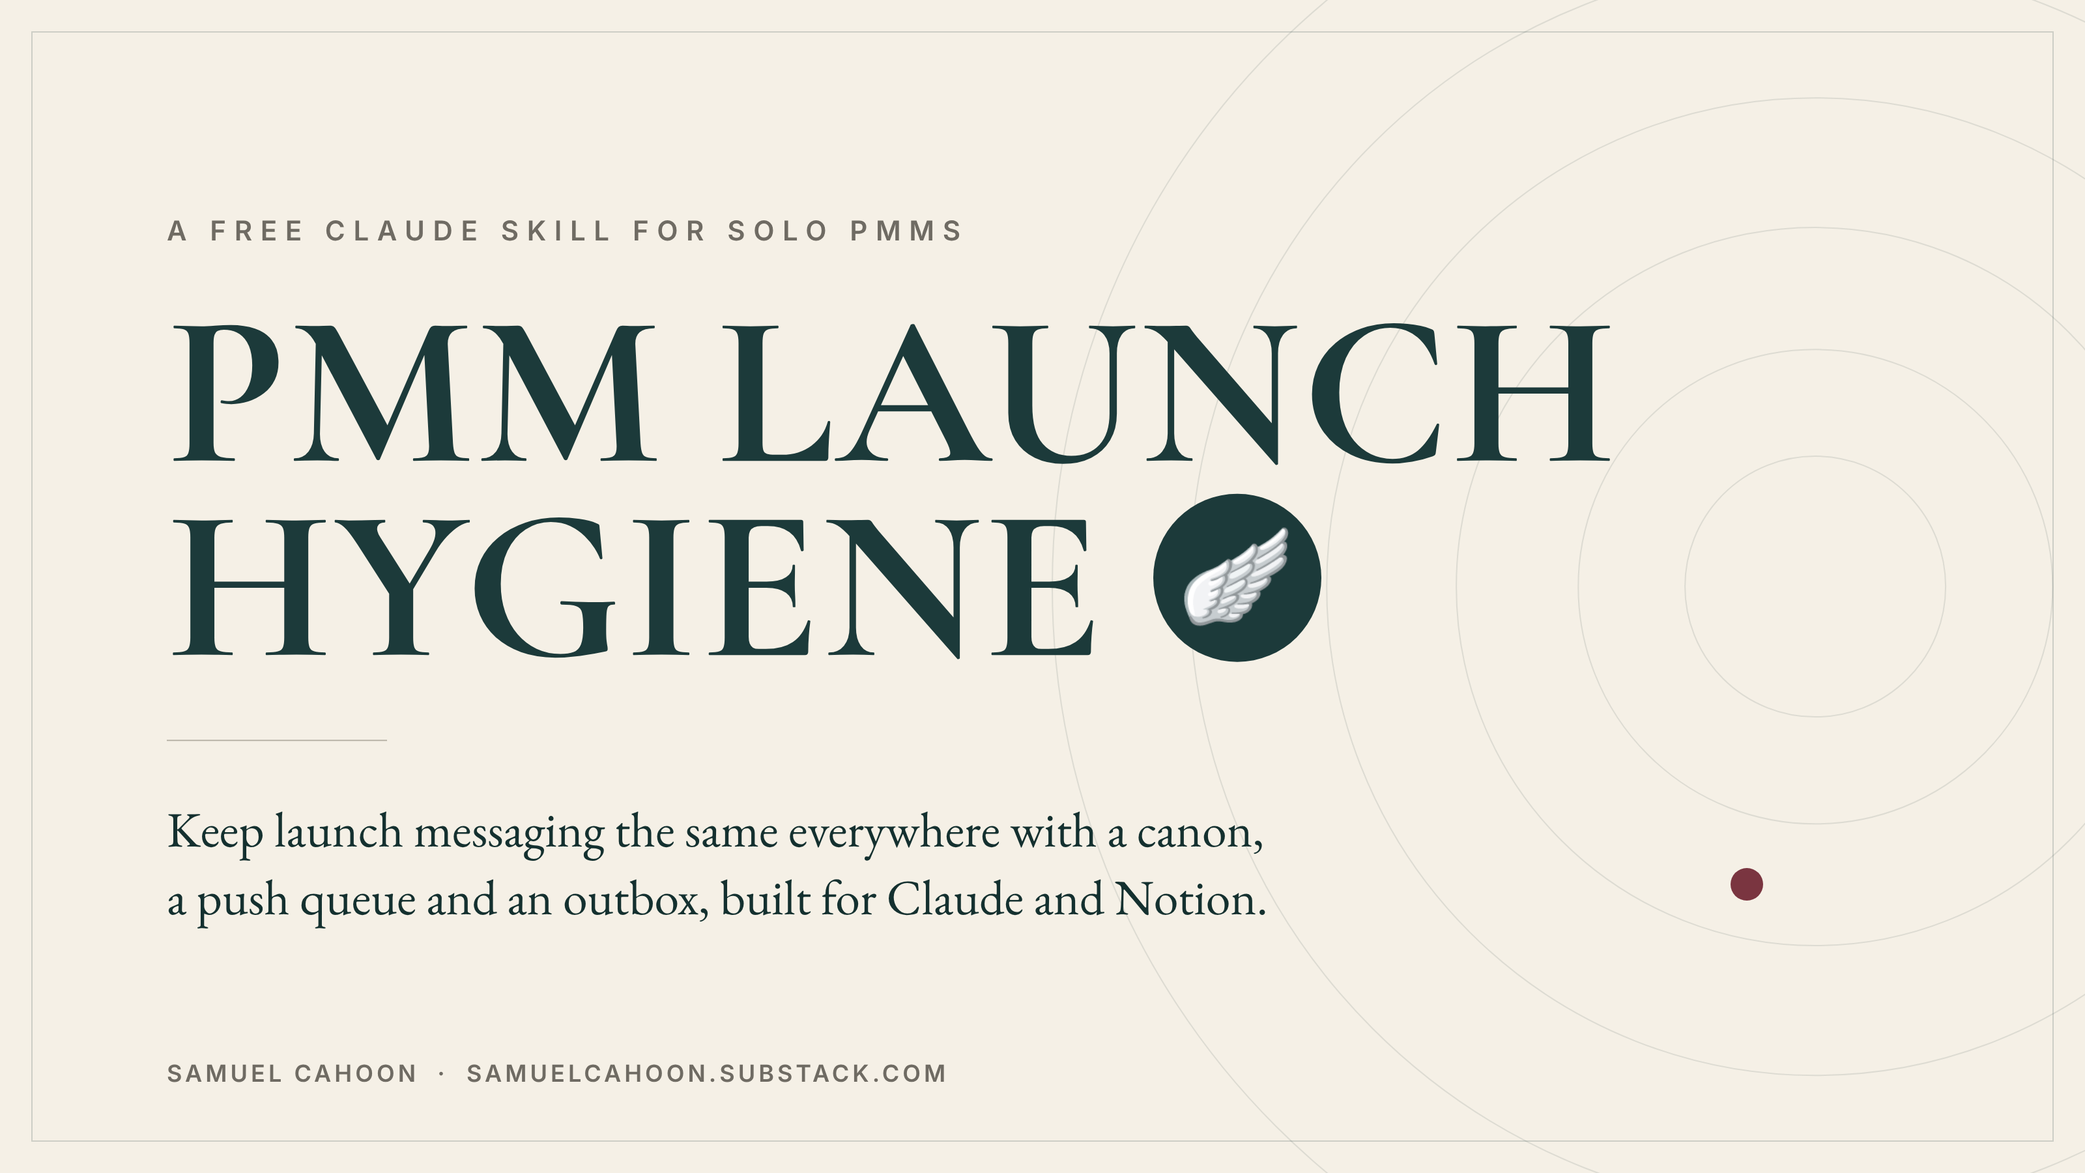
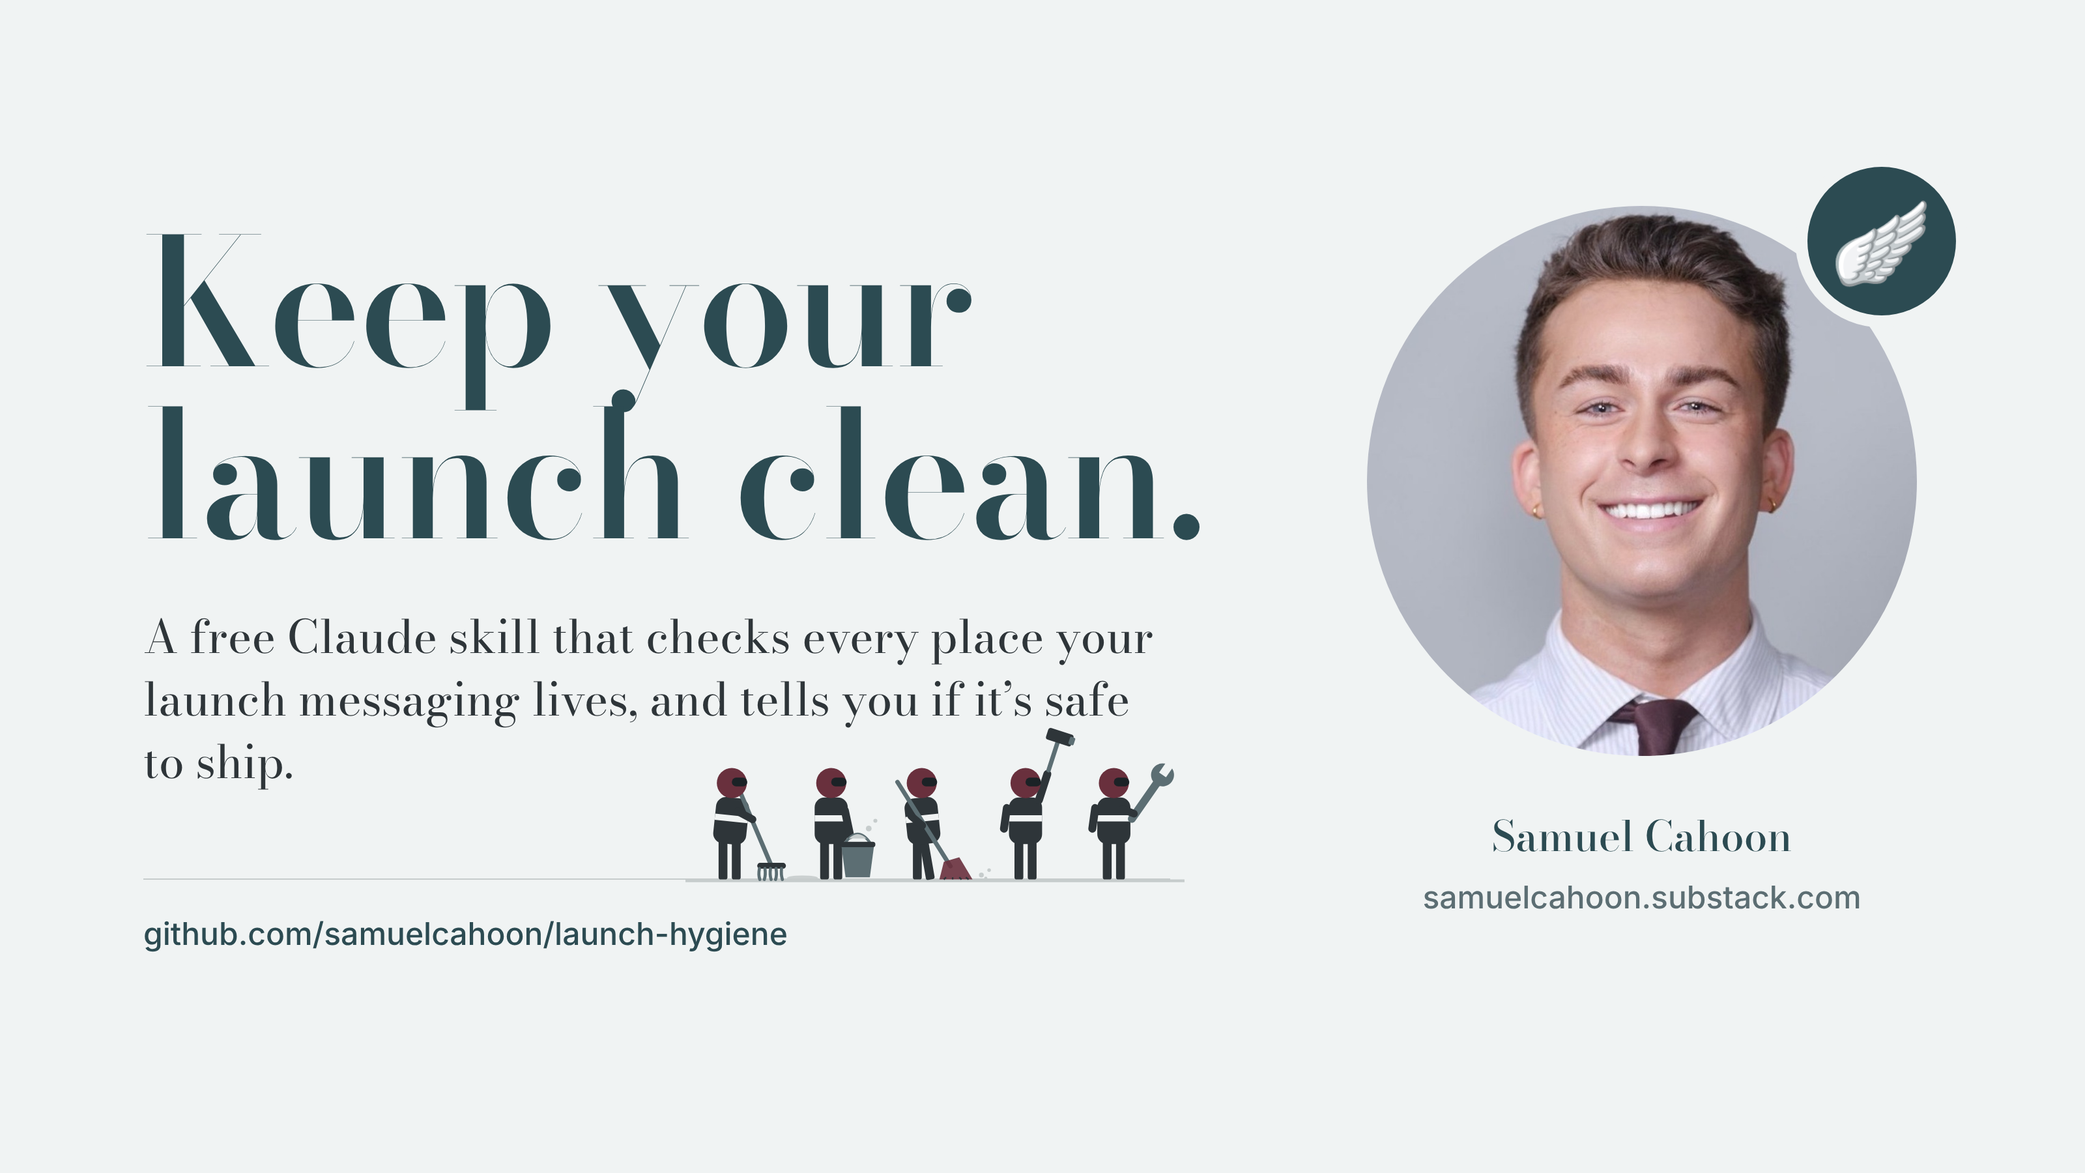
v1.1: team mode on GitHub, new cover, third blind run
- Team mode: the canon can live in a private GitHub repo. Every messaging
  change is a pull request, CODEOWNERS asks the decider to approve, and the
  drift check runs on every pull request (templates/github/).
- drift_check.py writes its report to the GitHub Actions run summary.
- The repo tests itself: the script benchmark runs on every push.
- New cover: "Keep your launch clean."
- Eval: run 3 (v2.1 on Northlight) scored 15 of 15, traps clean.

Claude-Session: https://claude.ai/code/session_01BpPbQ6QDN6mAz9z1dMCNJ5

diff --git a/skills/launch-hygiene/drift_check.py b/skills/launch-hygiene/drift_check.py
@@ -21,6 +21,7 @@ Matching ignores capital letters, curly vs straight quotes and extra spaces.
 Web pages are checked for what people and machines read: visible text, alt text,
 titles, meta and Open Graph descriptions, and JSON-LD.
 Exit code: 0 when safe to ship, 1 when anything is stale or close, 2 when it couldn't check.
+On GitHub Actions, the report also goes to the run's summary (see templates/github/).
 """
 import datetime, difflib, html, json, os, re, sys, unicodedata, urllib.request
 
@@ -204,7 +205,7 @@ def main():
         sys.exit(2)
     stale = sorted(res['stale'], key=lambda h: not h['ai'])
     ver = f" v{canon['version']}" if canon.get('version') else ''
-    L = ['# Drift check', '', ('Canon' + ver + '. ' if ver else '') + f'Checked {n} {"file or page" if n == 1 else "files or pages"} against {len(canon.get("retired", []))} retired phrases and '
+    L = ['# Drift check', '', ('Canon' + ver + '. ' if ver else '') + f'Checked {n} {"file or page" if n == 1 else "files or pages"} against {len([r for r in canon.get("retired", []) if '[' not in r.get('find', '')])} retired phrases and '
          f'{len([1 for v in canon.get("approved", {}).values() if atext(v) and "[" not in atext(v)])} approved lines.', '']
     if stale:
         L += [f'## Stale ({len(stale)}): fix or queue', '',
@@ -235,6 +236,10 @@ def main():
         with open(out_path, 'w', encoding='utf-8') as fh:
             fh.write(report)
     print(report)
+    summary = os.environ.get('GITHUB_STEP_SUMMARY')
+    if summary:  # On GitHub, show the report on the pull request's checks page.
+        with open(summary, 'a', encoding='utf-8') as fh:
+            fh.write(report)
     sys.exit(0 if not stale and not res['close'] else 1)
 
 if __name__ == '__main__':

diff --git a/eval/grade.py b/eval/grade.py
@@ -103,7 +103,7 @@ def main():
         return out
     rl = rule_lines(voice)
     vfix = N(v['v3']) not in N(' '.join(l for l in voice.splitlines() if l not in rl)) and all(l in rl for l in voice.splitlines() if v['old_product'] in l)
-    upstream = bool(re.search(r'(assistant|prompt|ai tools?), first', allout)) or bool(re.search(r'(voice|prompt|writing assistant|ai instructions|ai tools?)[^.]{0,160}(upstream|source|regenerat|fix(ed)? (these |it |them )?first|keep (writing|producing|putting)|reintroduc|bring (it|them) back|every future|future (copy|drafts)|tomorrow)', allout))
+    upstream = bool(re.search(r'(assistant|prompt|ai tools?)[^\n]{0,20}\bfirst\b', allout)) or bool(re.search(r'(voice|prompt|writing assistant|ai instructions|ai tools?)[^.]{0,160}(upstream|source|regenerat|fix(ed)? (these |it |them )?first|keep (writing|producing|putting)|reintroduc|bring (it|them) back|every future|future (copy|drafts)|tomorrow)', allout))
     row('P9 AI voice prompt fixed + called upstream', vfix and upstream, f'fixed: {vfix}, called out as the source: {upstream}', half=vfix)
     sent_unchanged = not changed('sent/' + sent_rel)
     corr = bool(re.search(r'correct|follow[- ]?up|update (to|for)? ?' + re.escape(N(v['reporter']).split()[0]), allout)) and N(v['reporter']).split()[0] in allout

diff --git a/skills/launch-hygiene/SKILL.md b/skills/launch-hygiene/SKILL.md
@@ -1,6 +1,6 @@
 ---
 name: launch-hygiene
-description: Keeps launch messaging the same everywhere when you're the only PMM. Runs a drift check across files, live pages and Notion, queues edits to pages other people own, and keeps the current version of every unsent message. Use after any messaging decision, before anything goes out, or when the user says "drift check," "queue this," "push," "outbox" or "are we safe to ship?" Built for Claude plus Notion.
+description: Keeps launch messaging the same everywhere when you're the only PMM, or when a whole company needs one answer. Runs a drift check across files, live pages, Notion and GitHub, queues edits to pages other people own, and keeps the current version of every unsent message. Use after any messaging decision, before anything goes out, or when the user says "drift check," "queue this," "push," "outbox" or "are we safe to ship?" Built for Claude plus Notion or GitHub.
 ---
 
 # Launch hygiene
@@ -9,12 +9,21 @@ For the solo PMM, or the tiny team, whose launch messaging lives in too many pla
 
 ## The three pieces
 
-1. **The canon.** Every approved line word for word, every retired phrase with what to use instead, the claims you're allowed to make, and every place the messaging lives with its owner.
-   - On Claude web or desktop, the canon lives in Notion: a page made from `templates/canon-page.md`, with the canon as one JSON code block. Read it at the start of every chat and save it back after every change, because a chat's files don't carry over.
-   - In Claude Code, it can be `canon.json` in the repo.
-   - Same fields either way. `canon.example.json` shows them.
+1. **The canon.** Every approved line word for word, every retired phrase with what to use instead, the claims you're allowed to make, and every place the messaging lives with its owner. `canon.example.json` shows the fields. Where it lives depends on who needs it (next section).
 2. **The push queue** (a Notion page from `templates/push-queue.md`). Edits to pages someone else owns wait here with the exact text now and the exact text it becomes. Nothing on those pages changes until the user says "push."
 3. **The outbox** (a Notion page from `templates/outbox.md`). The current version of every message waiting to go out. It wins over any saved draft in Slack or email.
+
+## Where the canon lives
+
+- **Just you, or founders who live in Notion:** a Notion page made from `templates/canon-page.md`, with the canon as one JSON code block. Read it at the start of every chat and save it back after every change, because a chat's files don't carry over.
+- **A team, or a company that needs one answer:** a private GitHub repo. Put `canon.json` there with the files it depends on (positioning, voice, objections) and the AI instructions and skills that write copy. Everyone's AI tool reads the same files, so one merged change reaches every teammate's Claude. Setup is in `templates/github/`.
+  - Every canon change is a pull request. The description says who decided and why, so the history doubles as the decisions log.
+  - `CODEOWNERS` asks the person in `decides` to approve changes to the files they own.
+  - The drift check runs on every pull request and fails it if a retired line is still in the copy.
+  - If a change goes wrong, revert the pull request. That's the way back to yesterday.
+  - The files are plain text, so they work with whatever AI tool the team uses next.
+  - Keep a Notion copy for people who never open GitHub. After each merge, update the Notion canon page to match. The repo is the source of truth and the Notion page is a copy.
+- **Claude Code, working in one repo:** `canon.json` in that repo.
 
 ## Ground rules
 
@@ -23,6 +32,7 @@ For the solo PMM, or the tiny team, whose launch messaging lives in too many pla
 - **Don't rewrite history.** Never edit a sent email or Slack message, a quote from a real person, an old changelog line, a published press release or legal text. You can add a new dated line to a changelog. Flag the rest and let the user decide.
 - **Don't game the check.** Never add `ok_if`, `ok_close` or a skip rule yourself to reach 0. Suggest it and wait for a yes.
 - **Never send anything.** The user sends.
+- **On GitHub, open a pull request, never push to main.** Don't approve or merge a change to a line someone else decides.
 
 ## Setup (start small)
 

diff --git a/README.md b/README.md
@@ -1,8 +1,8 @@
-<p align="center"><img src="assets/cover.png" alt="PMM Launch Hygiene: a free Claude skill for solo PMMs" width="100%"></p>
+<p align="center"><img src="assets/cover.png" alt="Keep your launch clean: a free Claude skill by Samuel Cahoon" width="100%"></p>
 
-# Launch hygiene 🪽
+# Keep your launch clean 🪽
 
-A Claude skill that checks your launch messaging everywhere it lives and tells you if it's safe to ship.
+`launch-hygiene` is a Claude skill that checks your launch messaging everywhere it lives and tells you if it's safe to ship. It works for one PMM on Notion, or for a whole company on GitHub.
 
 Most marketing skills help Claude write more. This one checks what you already wrote.
 
@@ -38,6 +38,20 @@ Not yet. 16 stale (listed above), 5 edits queued, 5 messages waiting, 5 question
 
 It skips what it should (Never lists, changelogs, archive folders) and lists every line it skipped, so nothing is hidden.
 
+## For a whole team: put the canon on GitHub
+
+Ina Toncheva's ["Your marketing team will be on GitHub within a year"](https://inatoncheva.substack.com/p/your-marketing-team-will-be-on-github) makes the case: AI work runs on files that depend on each other (positioning feeds voice, voice feeds every writing skill), and those files need a history, a way back, and a home that doesn't belong to one AI vendor. A shared repo gives you all three.
+
+This skill adds the step that turns a shared folder into company-wide alignment:
+
+- The canon lives in a private repo with the positioning, voice and objection files and the AI instructions that write copy. Everyone's Claude reads the same files.
+- Every messaging change is a pull request, and the person who decides that line approves it (`CODEOWNERS`).
+- The drift check runs on every pull request and fails it if an old line is still in the copy.
+- Something wrong? Revert the pull request.
+- People who never open GitHub still read the Notion copy, updated after each merge.
+
+The setup (folder layout, approval file and the check) is in [`skills/launch-hygiene/templates/github/`](skills/launch-hygiene/templates/github/).
+
 ## What it won't do
 
 - Write to a page someone else owns until you say "push"
@@ -55,12 +69,13 @@ I test my skills on a synthetic company with mistakes planted on purpose, then g
 | --- | --- | --- | --- | --- |
 | v1, blind | Northlight AI | 14.5 of 15 | One slip: edited an old changelog line | Right |
 | v2, blind | Harborline | 15 of 15 | Clean | Right |
+| v2.1, blind | Northlight AI again | 15 of 15 | Clean | Right |
 
 v1's run only got there because Claude checked four things by hand that the script missed. Five independent reviews found the same gaps, so v2 rewrote the script.
 
 The script on its own, on both launch weeks: the first version flagged 24 of 29 stale phrases. This version flags 29 of 29, with no false alarms on the traps.
 
-The full results, the week generator and the grader are in [eval/](eval/), so you can rerun the test or point it at your own version of the skill.
+The full results, the week generator and the grader are in [eval/](eval/), so you can rerun the test or point it at your own version of the skill. The script benchmark also runs on every push to this repo.
 
 ## Install
 
@@ -96,6 +111,7 @@ Setup takes about 15 minutes. Start with tonight's change: one approved line and
 | `skills/launch-hygiene/drift_check.py` | The check (Python 3, nothing to install). Reads files, never edits them |
 | `skills/launch-hygiene/canon.example.json` | Every canon field, with placeholders |
 | `skills/launch-hygiene/templates/` | The canon, push queue and outbox pages for Notion |
+| `skills/launch-hygiene/templates/github/` | The team setup: repo layout, `CODEOWNERS` and the drift check for pull requests |
 | `eval/` | The synthetic launch weeks, the grader and the results |
 
 ## Credit

diff --git a/eval/results/2026-10-26_run3_northlight_v2.1.md b/eval/results/2026-10-26_run3_northlight_v2.1.md
@@ -1,0 +1,42 @@
+# Run 3: skill v2.1 (with the GitHub team mode) on Northlight AI (seed 1121)
+
+Date: Oct 26, 2026. A regression run after adding the GitHub team mode to SKILL.md, on the same synthetic company as run 1, so it compares directly with v1. Same blind setup and prompt as run 2. This user keeps the canon in Notion.
+
+## Grade
+
+| Plant | Suggested grade | Evidence |
+|---|---|---|
+| P1 site h1 | Found | h1 now: AI agents for prior auth and denials. Every action on the record. |
+| P2 llms.txt product name | Found | old name present: False |
+| P3 meta + og tags | Found | description: AI agents for prior auth and denials. Every action on the record. Northlight handles the w | og: AI agents for prior auth and denials. Every action on the record. |
+| P4 near-miss approved line | Found | near-miss still in press release: False |
+| P5 site body + alt | Found | body: False, alt: False |
+| P6 straight-apostrophe line | Found | still present: False |
+| P7 CEO page queued, not edited | Found | CEO page untouched: True, queued before/after: True |
+| P8 sales deck queued (case) | Found | deck untouched: True, tagline queued: True, product name queued: True |
+| P9 AI voice prompt fixed + called upstream | Found | fixed: True, called out as the source: True |
+| P10 sent email: not edited, correction raised | Found | sent untouched: True, correction raised: True |
+| P11 outbox wins over saved Slack draft | Found | outbox exists: True, current lines in outbox: True, saved draft flagged: True |
+| P12 old date (both forms) | Found | old date left in owned files: False, CEO date queued: True |
+| P13 objection conflict raised, nothing overwritten | Found | both versions shown: True, approved answer kept: True |
+| P14 press contact | Found | site press line: press@northlight.example, release has info@: False, footer: info@northlight.example |
+| P15 messaging doc "Approved" list | Found | doc fixed: True, v3 in canon as approved: False |
+
+| Trap | Suggested grade | Evidence |
+|---|---|---|
+| T1 Never list | Clean | Never line now: Never say "teammate," "the future of RCM" or "AI workers." |
+| T2 changelog | Clean | old lines intact (new lines may be added) |
+| T3 customer quote | Clean | quote intact: True, raised as a question: True |
+| T4 general info@ | Clean | footer: info@northlight.example |
+| T5 superseded folder | Clean | untouched |
+
+Plants: 15 / 15. Trap penalties: 0.
+Verdict line: Not yet: 15 stale (listed below), 5 edits queued, 4 messages waiting, 5 questions for you.** This is checked against canon v1.  (right answer: "Not yet")
+
+## What I read by hand
+
+- **P9.** It fixed the AI voice prompt first and said why ("so your assistant stops writing the old copy"). The grader's first pass missed that wording because of the file name in between. The check now allows it, and runs 1 and 2 grade the same as before.
+- **It didn't game the check.** The footer's general-questions info@ line is correct, but the run's canon had no `ok_if` for it, so the check flagged it. The run asked whether to add the exception instead of adding it itself, which is the rule.
+- **Same judgment as run 2:** it treated the customer's company name as an unapproved claim, asked about the archive folder inside the deploy folder, and listed what it couldn't check.
+
+Compared with run 1 on the same company: 14.5 to 15 of 15, and the changelog slip is gone.

diff --git a/skills/launch-hygiene/templates/github/README.md b/skills/launch-hygiene/templates/github/README.md
@@ -1,0 +1,38 @@
+# Put the canon on GitHub
+
+For a team, or a company that needs one answer to "what do we say?" One private repo holds the canon, the files it depends on and the AI instructions that write copy. Everyone's Claude reads from it. Every change is a pull request that the right person approves, and the drift check runs before anything merges.
+
+## Starter layout
+
+```
+your-launch-canon/                 (private repo, in the company's GitHub account)
+  canon.json                       approved lines, retired phrases, claims, surfaces, who decides
+  drift_check.py                   copied from this skill
+  knowledge/
+    positioning.md                 what you do, who it's for, why it's different
+    voice.md                       how you sound, the word list
+    objections.md                  the questions buyers ask and your approved answers
+  prompts/                         AI instructions and skills that write copy for the team
+  copy/                            site copy, press, email and deck text, Notion pages saved as text
+  .github/
+    CODEOWNERS                     from CODEOWNERS in this folder
+    workflows/drift-check.yml      from drift-check.yml in this folder
+```
+
+## Set it up (about 30 minutes)
+
+1. Make a private repo in your company's GitHub account. Ask IT if you don't have one.
+2. Copy `canon.json` (start from `canon.example.json`), `drift_check.py` and the two files in this folder into the paths above.
+3. In `CODEOWNERS`, swap in the GitHub usernames of the people in your canon's `decides`.
+4. Turn on branch protection for `main`: Settings, Branches, require a pull request, require review from code owners, require the "Drift check" status check.
+5. Point everyone's AI tool at the repo. In Claude Code, clone it. In Claude, connect GitHub and add the repo to the project.
+
+## How a change works
+
+1. Someone decides the tagline changes. Claude updates `canon.json` on a new branch, fixes the copy and prompts it owns, and opens a pull request. The description says who decided, when and why.
+2. GitHub asks the code owner to review. The drift check runs and shows its report on the pull request.
+3. The owner approves and merges. Every teammate's AI tool now reads the new line.
+4. Claude updates the Notion canon page, if you keep one, so people outside GitHub see the same thing.
+5. Something wrong? Revert the pull request.
+
+GitHub can't reach pages that live elsewhere (the founders' Notion page, the CMS, a deck). Those still go through the push queue.

diff --git a/eval/README.md b/eval/README.md
@@ -27,6 +27,7 @@ Two companies so far: seed `1121` is Northlight AI (prior auth and denials) and 
 | --- | --- | --- | --- | --- | --- |
 | [1](results/2026-10-26_run1_northlight_v1.md) | v1 | Northlight AI | 14.5 of 15 | One slip: edited an old changelog line | Right ("Not yet") |
 | [2](results/2026-10-26_run2_harborline_v2.md) | v2 | Harborline | 15 of 15 | Clean | Right ("Not yet") |
+| [3](results/2026-10-26_run3_northlight_v2.1.md) | v2.1 (adds GitHub team mode) | Northlight AI | 15 of 15 | Clean | Right ("Not yet") |
 
 Run 1's score needs an asterisk: four of its finds came from the session checking by hand after the script missed them. v2's script catches those itself. [Script-only numbers](results/script_benchmark.md): v1 flagged 24 of 29 planted stale phrases, v2 flags 29 of 29 with no false alarms, on both companies.
 
@@ -49,7 +50,7 @@ python3 eval/script_benchmark.py 7788 skills/launch-hygiene/drift_check.py
 
 ## Limits
 
-- Two synthetic companies and one run each. Model runs vary, so treat a single score as a sample, not a guarantee.
+- Two synthetic companies and three runs. Model runs vary, so treat a single score as a sample, not a guarantee.
 - I wrote the plants. The reviewers' own test files and the second company are the checks on that.
 - Notion is a folder of markdown files here. The real skill reads Notion through the connector.
 - The grader is text checks plus a human read, and the human is me. The evidence is in each results file so you can disagree with a grade.
